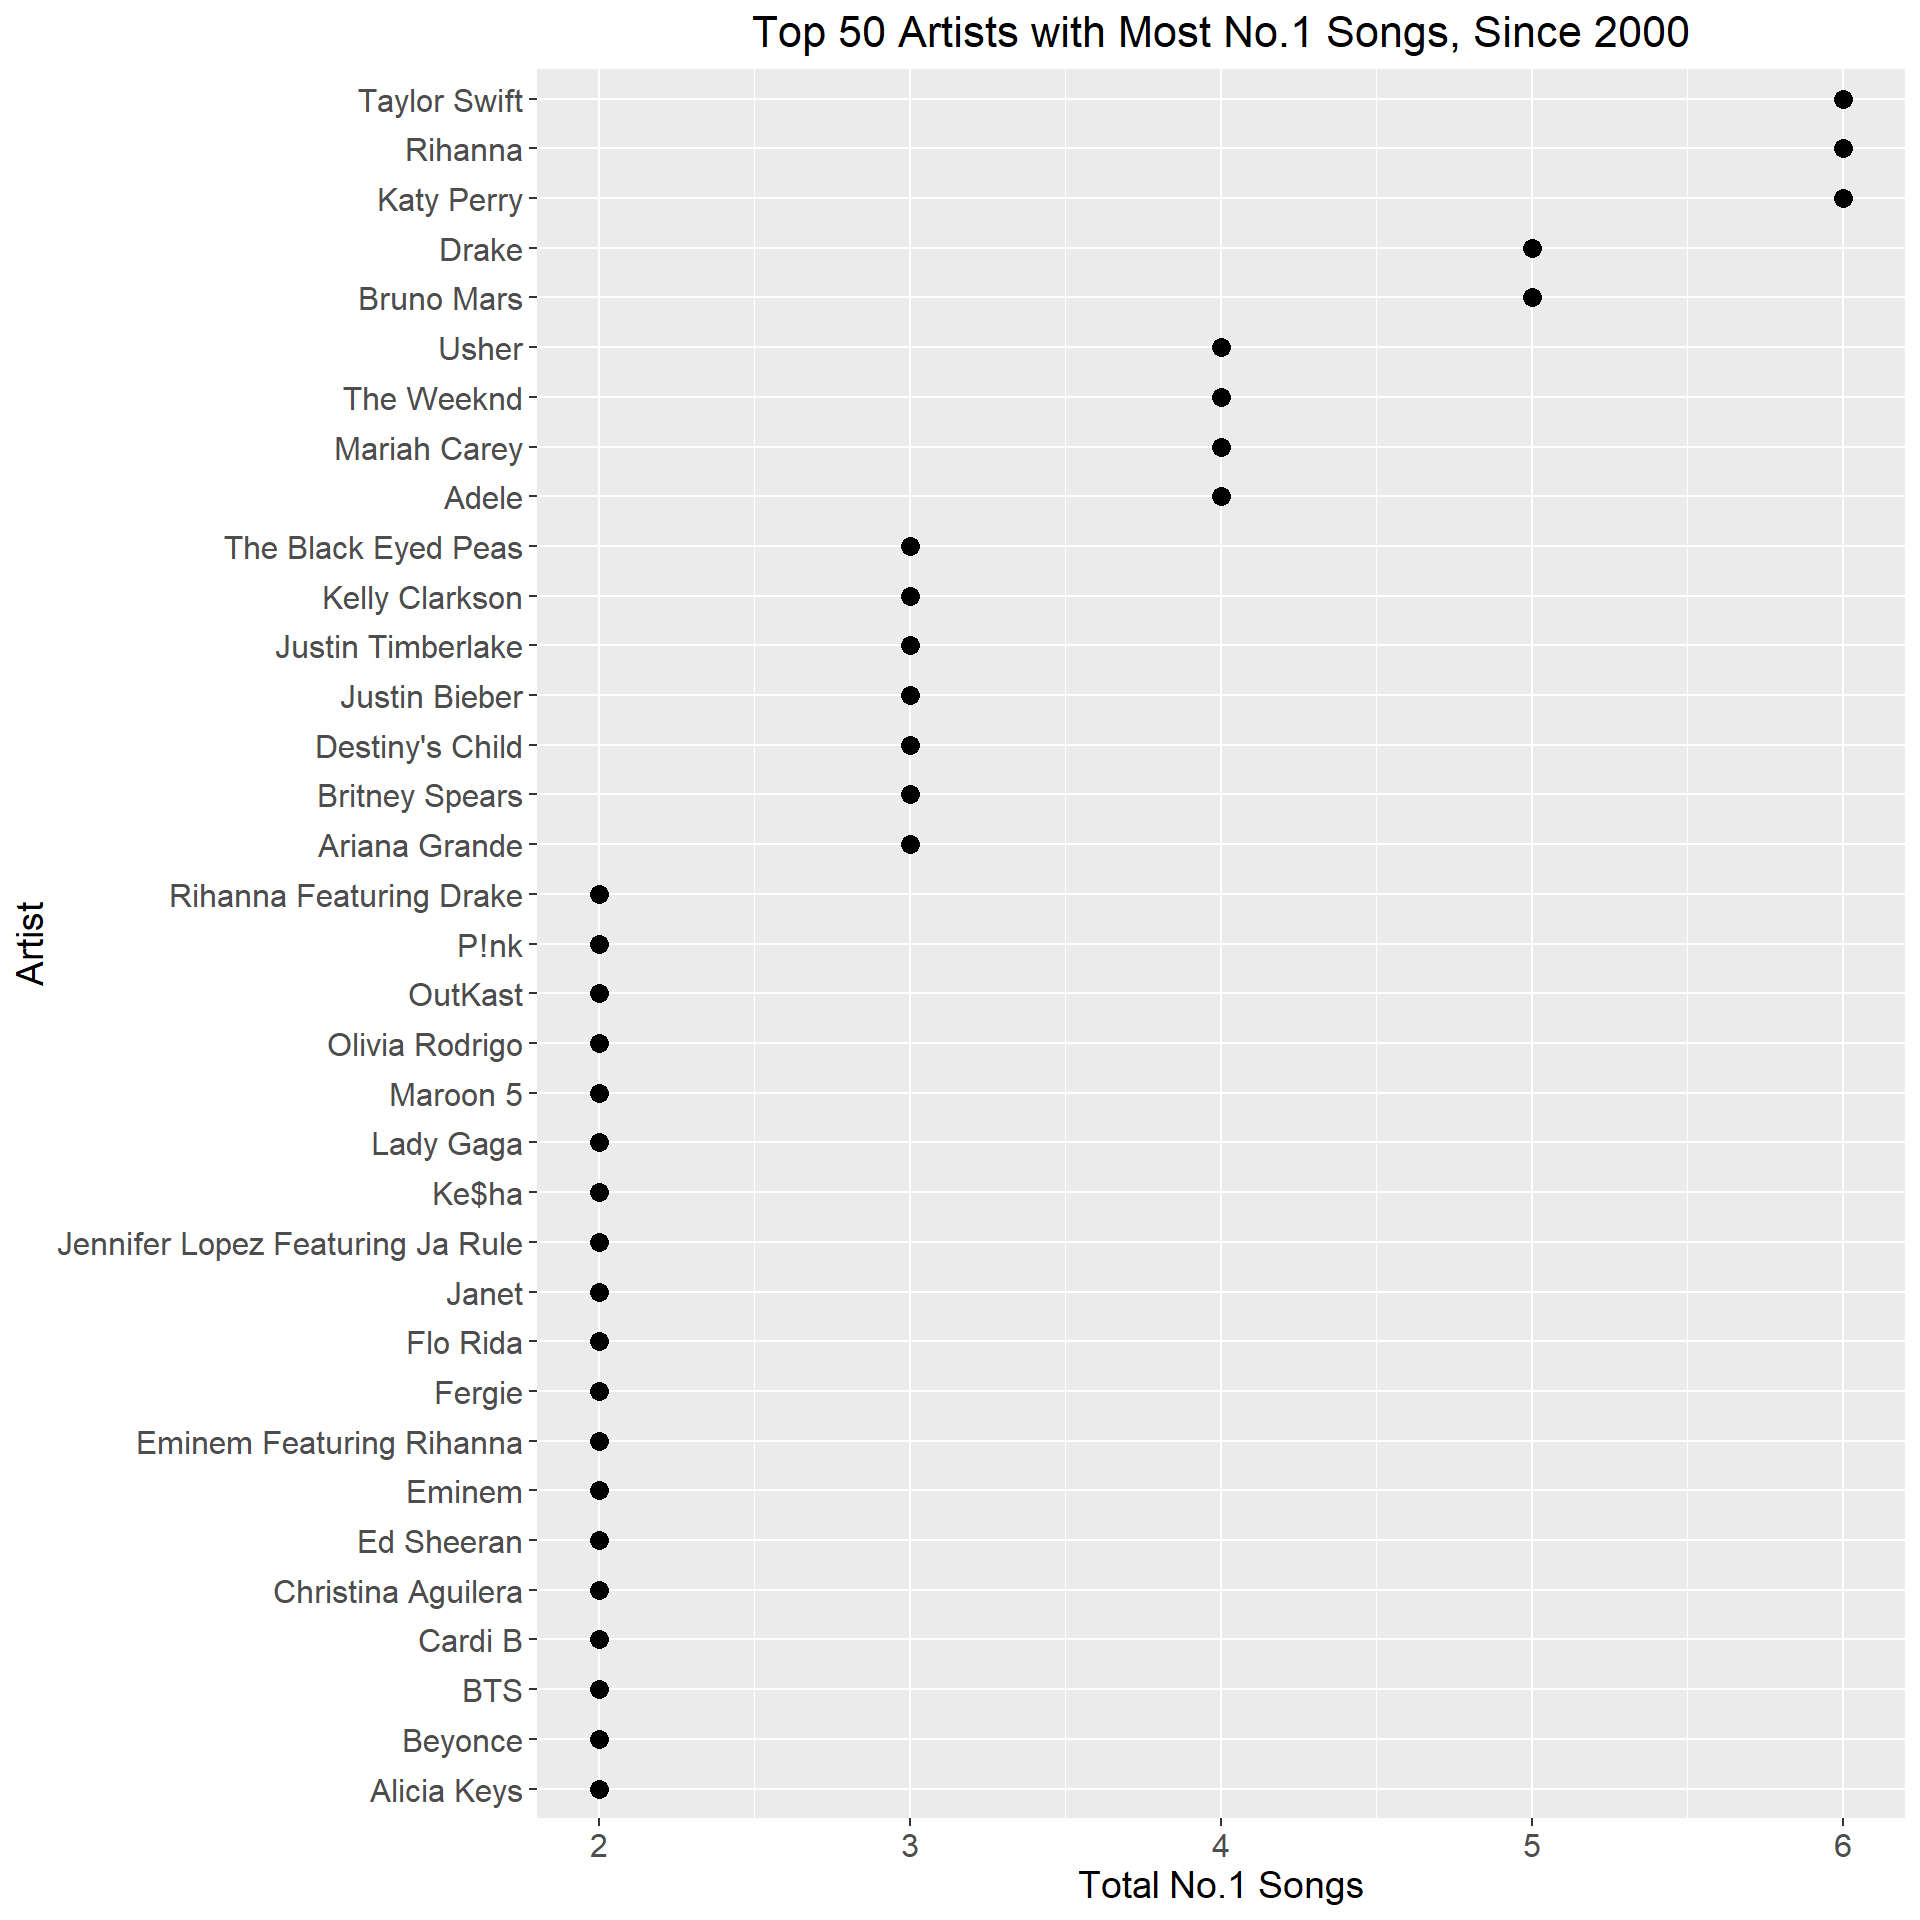
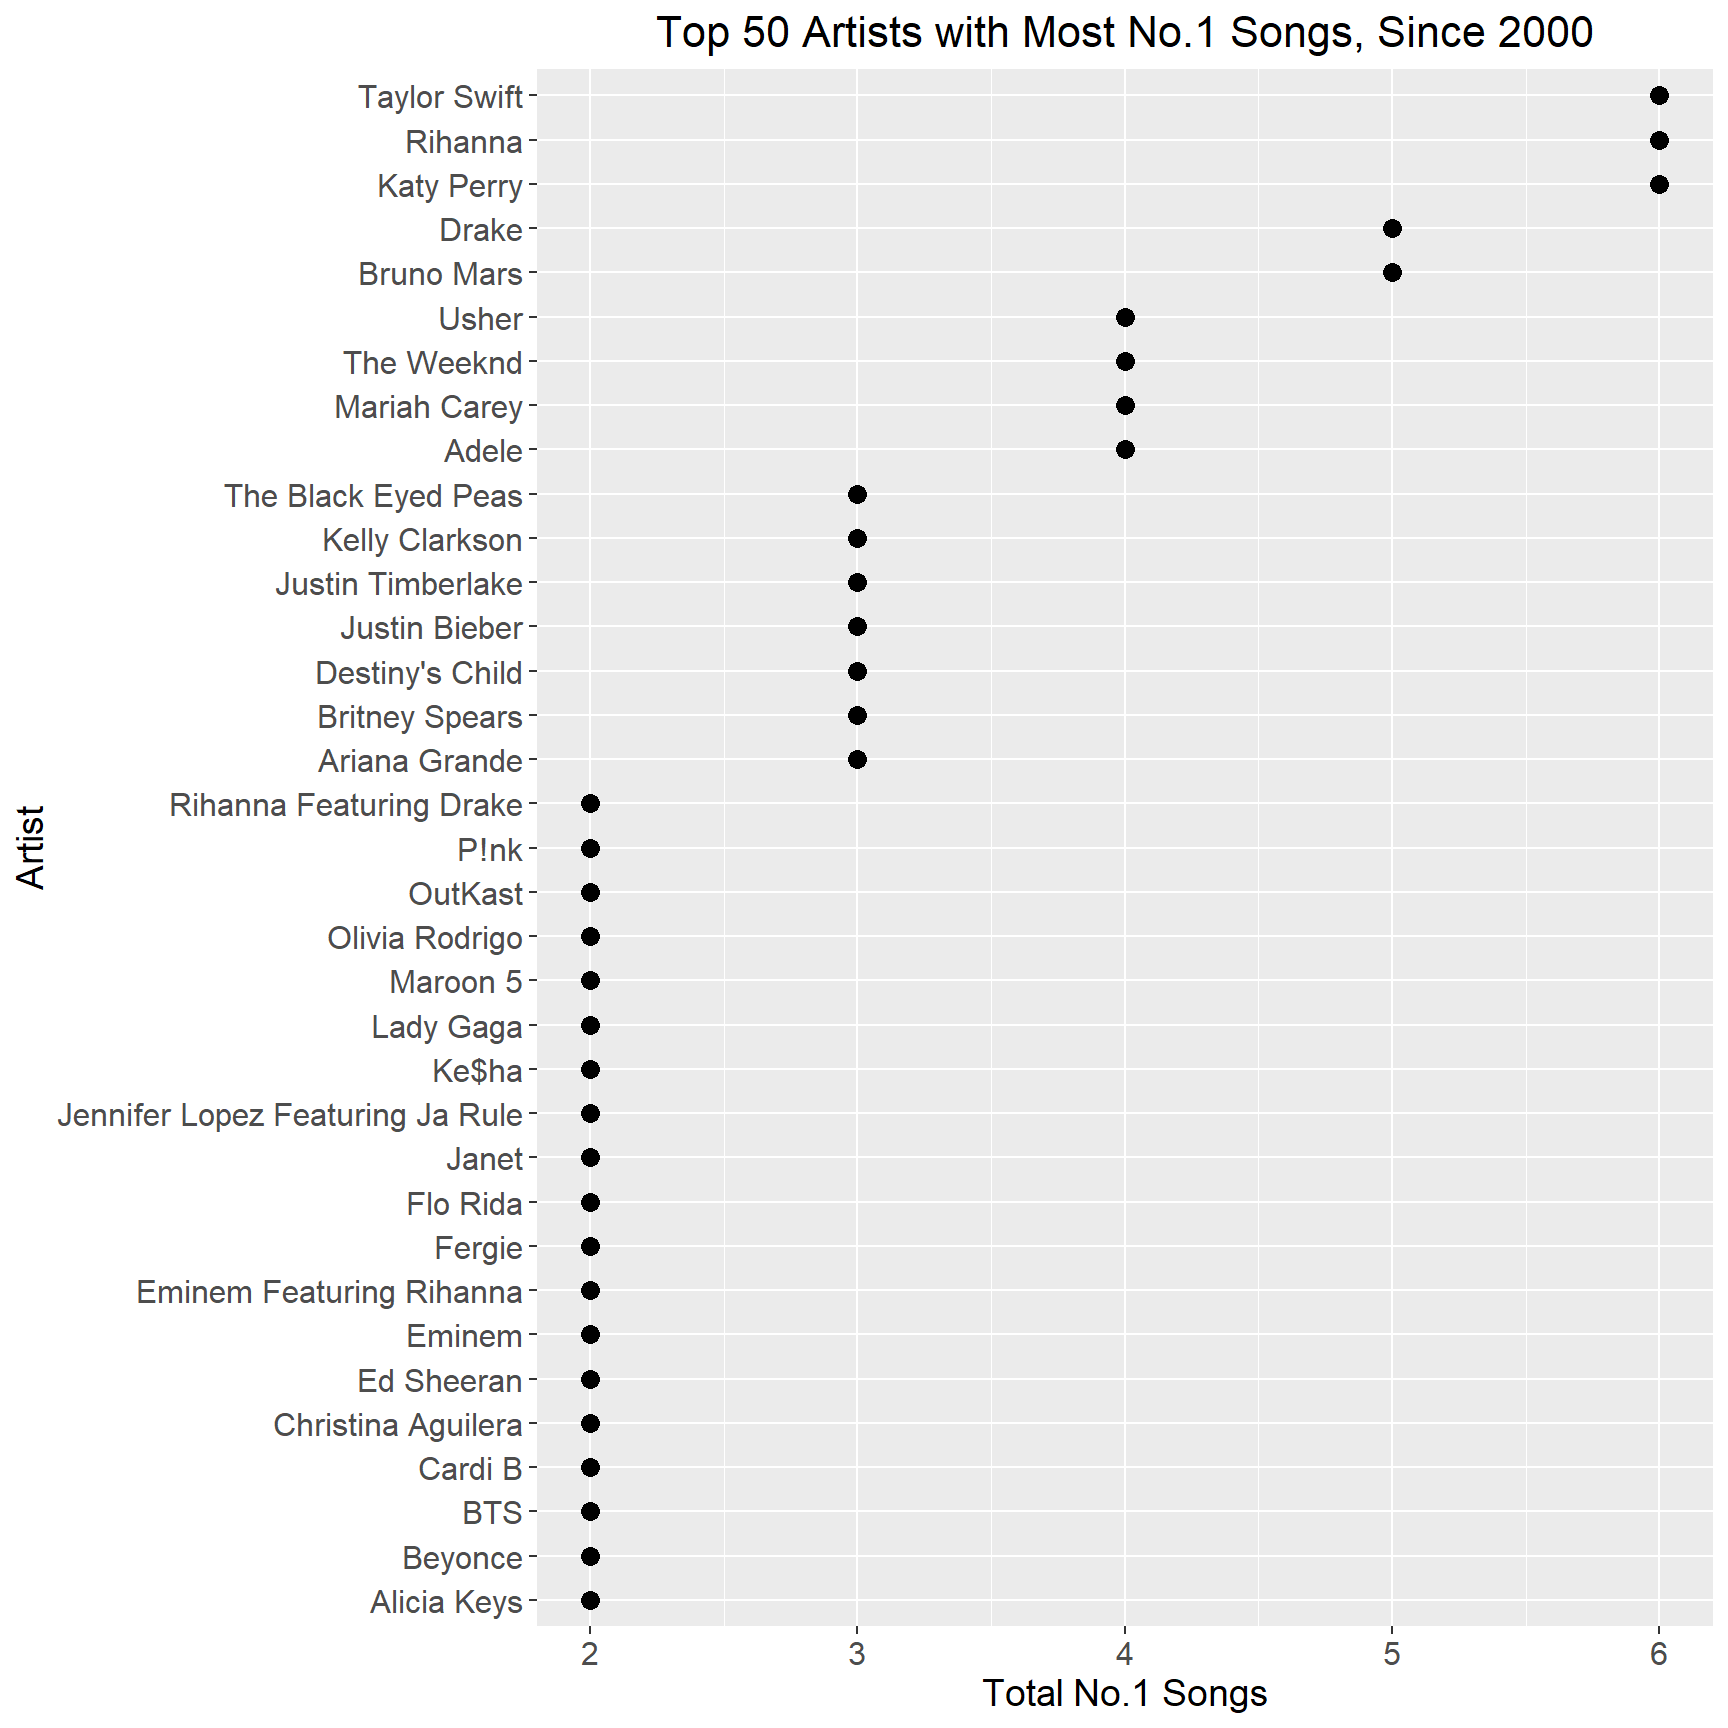
make interactive part larger

diff --git a/docs/results.html b/docs/results.html
@@ -118,7 +118,7 @@
 <p><img src="finalproj_files/figure-html/parcoord%20by%20decade-1.png" width="1152" />
 Surprisingly, there are many similarities between the trends of popular songs in the 1960s vs the 2020s. There is generally a positive correlation between danceability and energy in both decades. Notably, the main changes are seen in speechiness; there is an opposite correlation between speechiness and loudness or speechiness and accousticness in the 2010’s compared to the 1960’s.</p>
 <p><img src="finalproj_files/figure-html/genre%20by%20decade-1.png" width="1152" />
-Again, data from the 1950s was omitted since it was an incomplete decade (though data from the 2020s was kept since it is more recent and relevant). Notably, there is a shift (and creation) of some genres becoming more or less popular during certain decades. For example, it’s evident that Blues were popular in the 19050s but have progressively become less popular in subsequent decades whereas Country became more popular, peaking in the 70s before losing relative popularity. Some genres such as edm and kpop didn’t even exist in earlier decades, and did not show any popularity until the last 10 years.</p>
+Again, data from the 1950s was omitted since it was an incomplete decade (though data from the 2020s was kept since it is more recent and relevant). Notably, there is a shift (and creation) of some genres becoming more or less popular during certain decades. For example, it’s evident that Blues were popular in the 1950s but have progressively become less popular in subsequent decades whereas Country became more popular, peaking in the 70s before losing relative popularity. Some genres such as edm and kpop didn’t even exist in earlier decades, and did not show any popularity until the last 10 years.</p>
 </div>
 <div id="what-artists-and-songs-have-trended-since-2000" class="section level2" number="5.2">
 <h2><span class="header-section-number">5.2</span> What artists and songs have trended since 2000?</h2>
@@ -127,8 +127,8 @@ Again, data from the 1950s was omitted since it was an incomplete decade (though
 <p>Which songs have managed to stay on the Top 100 charts the longest? We wanted to look at a song’s popularity from the angle of how long it stayed in the Top 100 songs. Out of the 50 songs that were on the charts the longest, Imagine Dragons’ “Radioactive” remained in the Top 100 for a total of 87 weeks; the four songs with the greatest longevity remained on the chart each for over 76 weeks. Rock and pop appear to be the two most popular genres with each comprising of 15 and 11, respectively, out of the total 50 songs charted.</p>
 <p><img src="finalproj_files/figure-html/top%20song%20by%20Num%20of%20weeks%20at%20No1-1.png" width="1152" /></p>
 <p>Alternatively, we wanted to see how long the most popular songs (i.e those that ranked first on the charts) were able to remain at their top position. Lil ‘Nas’ “Old Town Road” spent 19 weeks at the Number 1 position while Luis Fonsi’s “Despacito” spent 16 weeks. Out of the 50 songs that remained at Number 1 the longest, the majority of the songs did not maintain their position for more than 10 weeks, with only 3 total lasting for 15 weeks or longer. Different the results from songs that stayed in the Top 100, the most popular genres here were hip hop (15), pop (9), and rap (9). Similarly, there is little overlap between songs that were in the Top 100 for the longest compared to songs that were at the Top 1 position which seems to imply that although some songs may quickly become America’s favorites, they don’t necessarily stay in popular memory for as long.</p>
-<p><img src="finalproj_files/figure-html/top%20artists%20by%20num%20songs%20on%20chart-1.png" width="960" /></p>
-<p><img src="finalproj_files/figure-html/top%20artists%20by%20No1%20songs%20on%20chart-1.png" width="960" /></p>
+<p><img src="finalproj_files/figure-html/top%20artists%20by%20num%20songs%20on%20chart-1.png" width="864" /></p>
+<p><img src="finalproj_files/figure-html/top%20artists%20by%20No1%20songs%20on%20chart-1.png" width="864" /></p>
 <p>Insight:</p>
 </div>
 <div id="what-defines-a-genre-and-what-makes-k-pop-so-unique" class="section level2" number="5.3">

diff --git a/docs/interactive-component.html b/docs/interactive-component.html
@@ -111,7 +111,7 @@
             <section class="normal" id="section-">
 <div id="interactive-component" class="section level1" number="6">
 <h1><span class="header-section-number">Chapter 6</span> Interactive component</h1>
-<iframe src="index_interactive.html" width="800" height="500">
+<iframe src="index_interactive.html" width="800" height="600">
 </iframe>
 <p>You can also access the plot on VizHub:
 <a href="https://vizhub.com/jw4169/20ca79535ad2415383c09787459a5d22?edit=files&amp;file=index.html" class="uri">https://vizhub.com/jw4169/20ca79535ad2415383c09787459a5d22?edit=files&amp;file=index.html</a></p>
